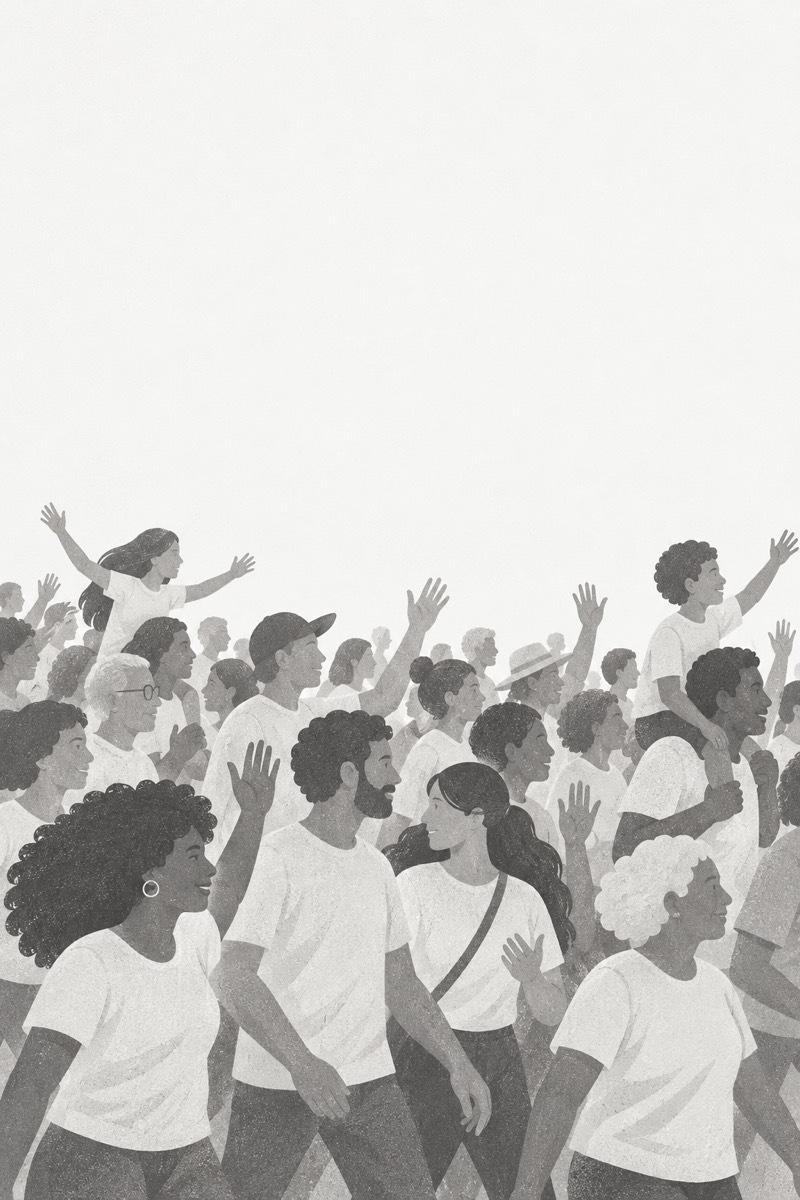
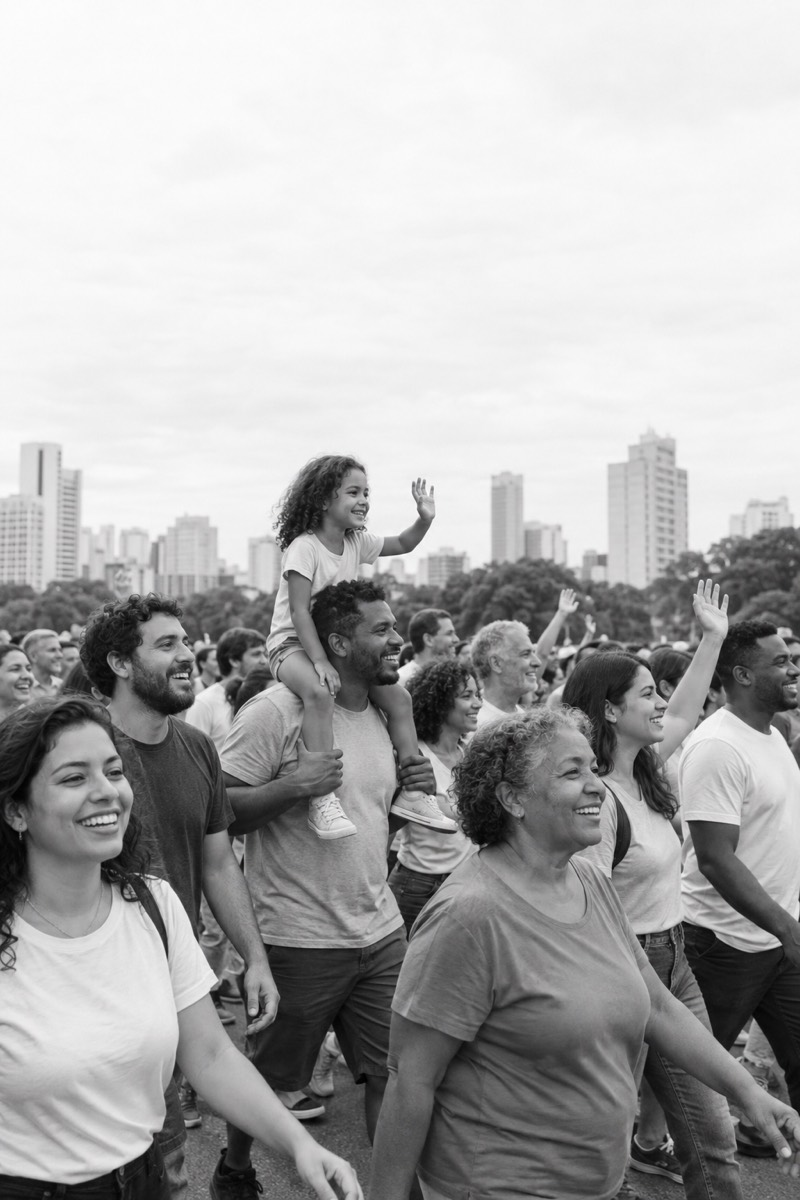
Protótipo A: multidões em foto realista (IA, P&B tingida pela cor de cada lado) na vinheta

diff --git a/docs/prototipo/novo-design/js/a.js b/docs/prototipo/novo-design/js/a.js
@@ -335,7 +335,7 @@ export function render(m, root) {
 		const ov = document.createElement("div");
 		ov.className = "a-intro";
 		ov.setAttribute("aria-hidden", "true");
-		ov.innerHTML = `<div class="a-i-faixa"><i class="a-i-f" style="width:${m.media.vf}%"><img class="a-i-multidao" src="midia/multidao-flavio.jpg" alt=""><img class="a-i-rosto" src="${F.foto}" alt="" width="161" height="225"><span>Flávio<b>${p1.format(m.media.vf)}</b></span></i><i class="a-i-l"><img class="a-i-multidao" src="midia/multidao-lula.jpg" alt=""><img class="a-i-rosto" src="${L.foto}" alt="" width="161" height="225"><span>Lula<b>${p1.format(m.media.vl)}</b></span></i><em></em><small class="a-i-ia">Ilustrações geradas por IA</small></div>
+		ov.innerHTML = `<div class="a-i-faixa"><i class="a-i-f" style="width:${m.media.vf}%"><img class="a-i-multidao" src="midia/multidao-flavio.jpg" alt=""><img class="a-i-rosto" src="${F.foto}" alt="" width="161" height="225"><span>Flávio<b>${p1.format(m.media.vf)}</b></span></i><i class="a-i-l"><img class="a-i-multidao" src="midia/multidao-lula.jpg" alt=""><img class="a-i-rosto" src="${L.foto}" alt="" width="161" height="225"><span>Lula<b>${p1.format(m.media.vl)}</b></span></i><em></em><small class="a-i-ia">Imagens geradas por IA</small></div>
       <div class="a-i-txt"><p class="a-i-data"><span>25 de outubro</span></p><p class="a-i-sub">2º turno para presidente</p><p class="a-i-faltam">faltam <b>20</b> dias</p></div>`;
 		document.body.append(ov);
 		document.documentElement.style.overflow = "hidden";

diff --git a/docs/prototipo/novo-design/css/a.css b/docs/prototipo/novo-design/css/a.css
@@ -169,6 +169,6 @@ body[data-v="A"] {
 
 /* ---------- multidões (ilustrações geradas por IA, tingidas pela cor de cada lado) ---------- */
 .a-i-f, .a-i-l { overflow: hidden; }
-.a-i-multidao { position: absolute; inset: 0; width: 100%; height: 100%; object-fit: cover; object-position: center bottom; mix-blend-mode: multiply; opacity: .7; pointer-events: none; }
+.a-i-multidao { position: absolute; inset: 0; width: 100%; height: 100%; object-fit: cover; object-position: center bottom; mix-blend-mode: multiply; opacity: .62; pointer-events: none; }
 .a-i-f > :not(.a-i-multidao), .a-i-l > :not(.a-i-multidao) { position: relative; z-index: 1; }
 .a-i-ia { position: absolute; z-index: 2; left: 50%; top: 16px; transform: translateX(-50%); color: #fff; font: 500 12px/1 "Archivo", sans-serif; white-space: nowrap; }
